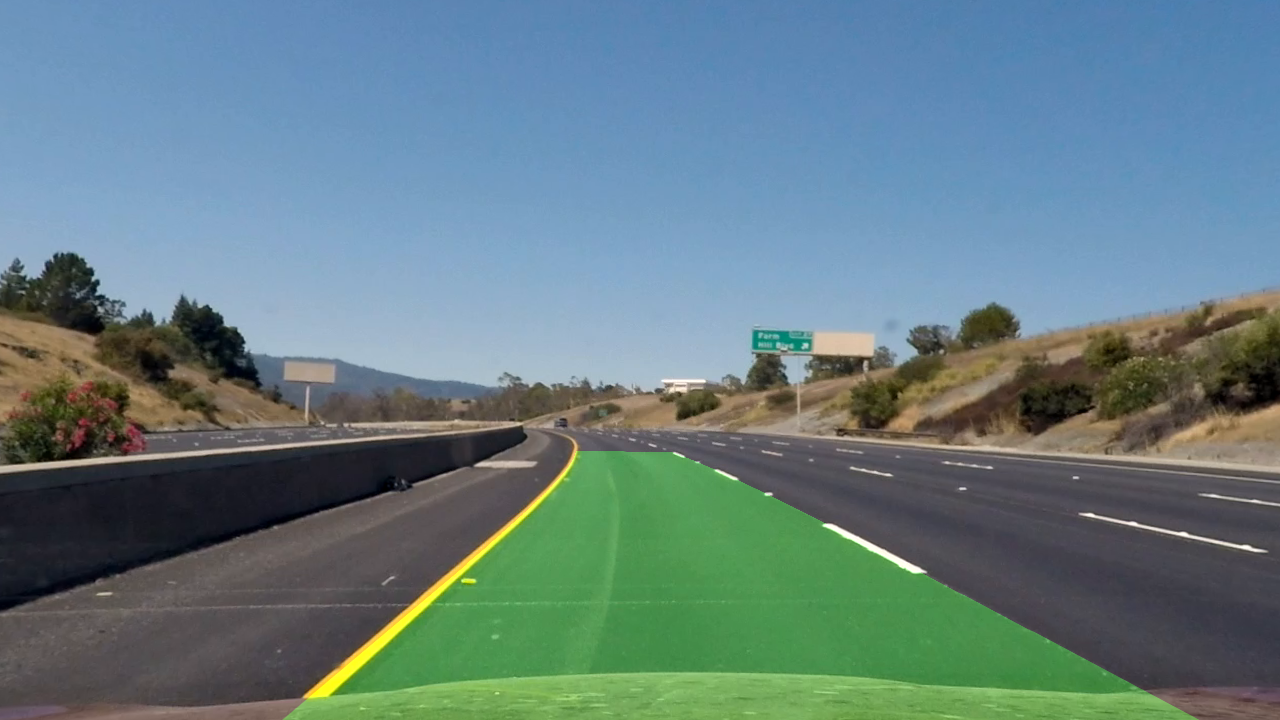
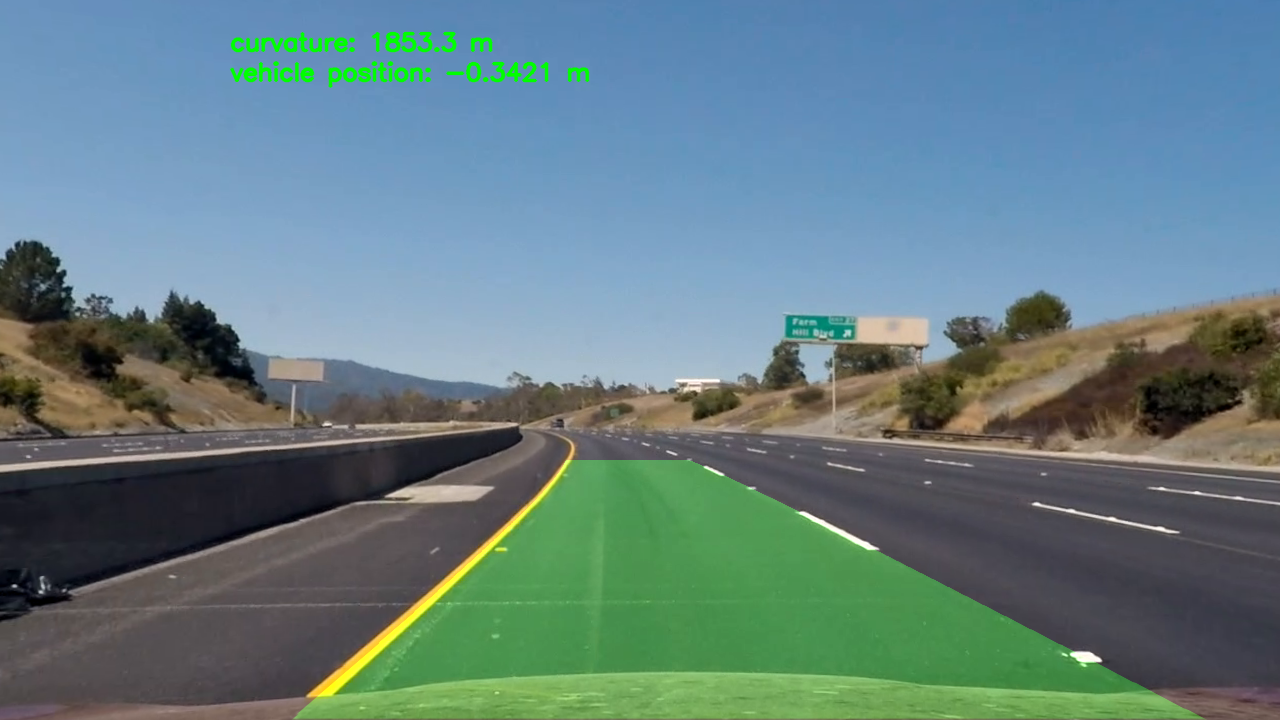
update jpg files

diff --git a/process_video.py b/process_video.py
@@ -58,16 +58,54 @@ class FrameInfo():
         self.warp_image = None
         self.undistort_image = None
 
+    def get_curvature(self):
+        y_eval = self.warp_image.shape[0] - 1
+        # Define conversions in x and y from pixels space to meters
+        ym_per_pix = 30/720. # meters per pixel in y dimension
+        xm_per_pix = 3.7/700. # meters per pixel in x dimension
+
+
+        mx = xm_per_pix
+        my = ym_per_pix
+        left_fit_cr = [mx / (my ** 2) * self.left_best_fit[0], (mx/my) * self.left_best_fit[1], self.left_best_fit[2]]
+        right_fit_cr = [mx / (my ** 2) * self.right_best_fit[0], (mx/my) * self.right_best_fit[1], self.right_best_fit[2]]
+        # Calculate the new radii of curvature
+        left_curverad_meter  = ((1 + (2 * left_fit_cr[0] * y_eval + left_fit_cr[1]) ** 2) ** 1.5) / np.absolute(2 * left_fit_cr[0])
+        right_curverad_meter  = ((1 + (2 * right_fit_cr[0] * y_eval + right_fit_cr[1]) ** 2) ** 1.5) / np.absolute(2 * right_fit_cr[0])
+        #print(left_curverad_meter, 'm', right_curverad_meter, 'm')
+        left_curvature = left_curverad_meter
+        right_curvature = right_curverad_meter
+        self.curvature = (left_curvature + right_curvature)/2
+
+        # find end vehicle position
+        left_x = self.left_best_fit[0] * (y_eval** 2) + self.left_best_fit[1] * y_eval + self.left_best_fit[2]
+        right_x = self.right_best_fit[0] * (y_eval** 2) + self.right_best_fit[1] * y_eval + self.right_best_fit[2]
+        self.line_base_pos = (self.warp_image.shape[1]/2 - (left_x + right_x)/2) * mx
+
     def cycle_update(self):
         self.cycle += 1
 
+        if len(self.left_recent_xfitted) >= 5:
+            self.left_best_fit = np.sum(self.left_recent_xfitted, axis=0)/5 * 0.5 + self.left_fit * 0.5
+            self.right_best_fit = np.sum(self.right_recent_xfitted, axis=0)/5 * 0.5 + self.right_fit * 0.5
+            self.left_recent_xfitted.pop(0)
+            self.right_recent_xfitted.pop(0)
+
+        else:
+            self.left_best_fit = self.left_fit
+            self.right_best_fit = self.right_fit
+        self.left_recent_xfitted.append(np.array(self.left_fit))
+        self.right_recent_xfitted.append(np.array(self.right_fit))
+
     def draw_line_area(self):
+        self.cycle_update()
+        self.get_curvature()
         # Create an image to draw the lines on
         warped = self.warp_image[:, :, 0]
         warp_zero = np.zeros_like(warped).astype(np.uint8)
         color_warp = np.dstack((warp_zero, warp_zero, warp_zero))
         #ploty = np.linspace(0, warped.shape[0] - 1, num=warped.shape[0])
-        ploty = np.linspace(360, warped.shape[0] - 1, (warped.shape[0]-360))
+        ploty = np.linspace(0, warped.shape[0] - 1, (warped.shape[0]))
         if len(self.left_fit) != 0 and len(self.right_fit) != 0:
             left_fitx = self.left_fit[0] * ploty ** 2 + self.left_fit[1] * ploty + self.left_fit[2]
             right_fitx = self.right_fit[0] * ploty ** 2 + self.right_fit[1] * ploty + self.right_fit[2]
@@ -87,11 +125,12 @@ class FrameInfo():
             # Combine the result with the original image
             #print(newwarp.shape)
             result = cv2.addWeighted(self.undistort_image, 1, newwarp, 0.3, 0)
-            plt.imshow(result)
-            plt.text(100, 200, 'curvature: {:.1f} m'.format(self.curvature), style='italic', size='10' )
-            plt.text(100, 250, 'vehicle position: {:.4f} m'.format(self.line_base_pos), style='italic', size='10')
+            font = cv2.FONT_HERSHEY_SIMPLEX
+            cv2.putText(result, 'curvature: {:.1f} m'.format(self.curvature), (230, 50), font, 0.8, (0, 255, 0), 2, cv2.LINE_AA)
+            cv2.putText(result, 'vehicle position: {:.4f} m'.format(self.line_base_pos), (230, 80), font, 0.8, (0, 255, 0), 2, cv2.LINE_AA)
+            #plt.imshow(result)
 
-            plt.imsave('new_warp.jpg', result)
+            #plt.imsave('new_warp.jpg', result)
             return result
         else:
             return self.undistort_image
